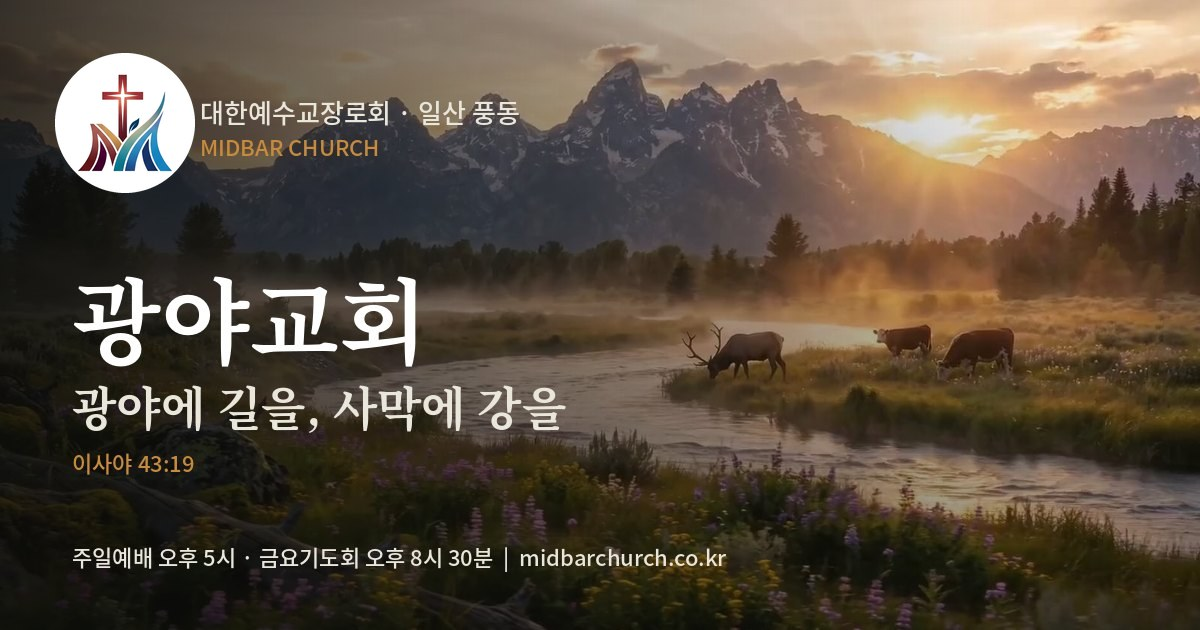
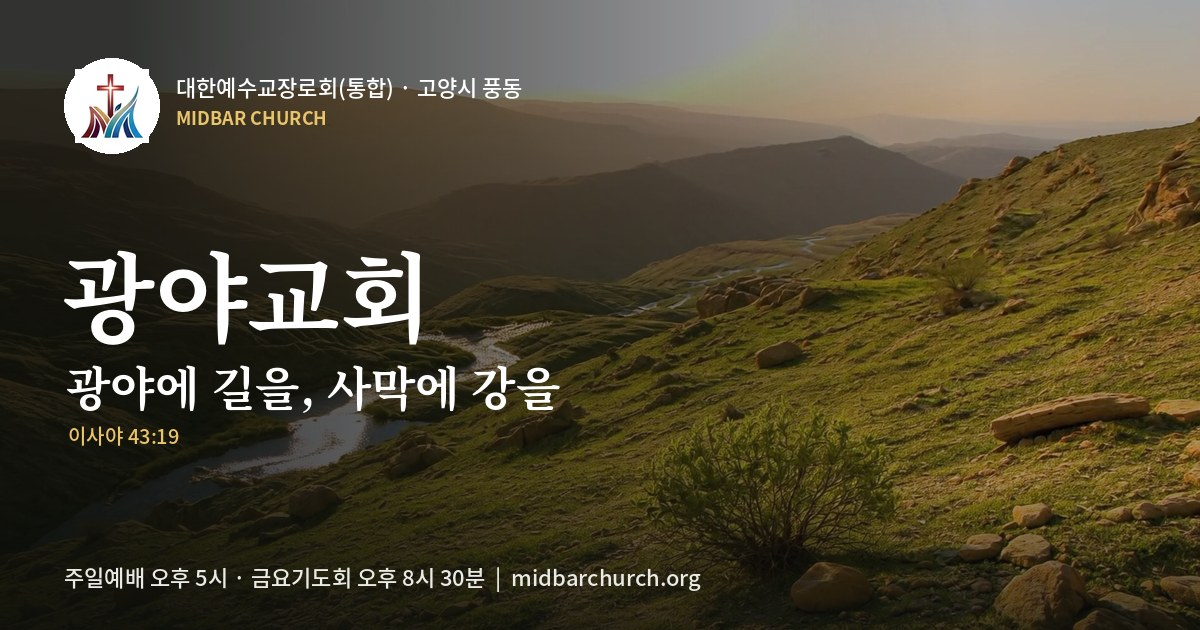
카톡·SNS 공유 이미지를 새 광야 영상 장면으로 교체
Claude-Session: https://claude.ai/code/session_01XdM4BBDA2kUD7tYbW4mUPe

diff --git a/index.html b/index.html
@@ -26,14 +26,14 @@
 <meta property="og:url" content="https://midbarchurch.org/">
 <meta property="og:title" content="광야교회 Midbar church | 대한예수교장로회(통합, 고양시)">
 <meta property="og:description" content="고양시 풍동 광야교회 · 주일예배 오후 5시 · 금요기도회 오후 8시 30분 · 숲속마을1로 26 다인타운 4층">
-<meta property="og:image" content="https://midbarchurch.org/og-image.jpg?v=3">
+<meta property="og:image" content="https://midbarchurch.org/og-image.jpg?v=4">
 <meta property="og:image:width" content="1200">
 <meta property="og:image:height" content="630">
 <meta property="og:image:alt" content="광야교회 - 광야에 길을, 사막에 강을 (이사야 43:19)">
 <meta name="twitter:card" content="summary_large_image">
 <meta name="twitter:title" content="광야교회 Midbar church | 대한예수교장로회(통합, 고양시)">
 <meta name="twitter:description" content="고양시 풍동 광야교회 · 주일예배 오후 5시 · 금요기도회 오후 8시 30분">
-<meta name="twitter:image" content="https://midbarchurch.org/og-image.jpg?v=3">
+<meta name="twitter:image" content="https://midbarchurch.org/og-image.jpg?v=4">
 <meta name="geo.region" content="KR-41">
 <meta name="geo.placename" content="경기도 고양시 풍동">
 <meta name="geo.position" content="37.6634723;126.7990264">
@@ -55,7 +55,7 @@
    "description": "하나님을 가장 깊이 만나는 곳, 광야교회입니다. 히브리어로 광야는 '미드바르'이며 '말씀(다바르)'에서 비롯된 말입니다. 2026년 9월 18일 개척 준비기도회로 첫 현장 예배를 드렸습니다.",
    "url": "https://midbarchurch.org/",
    "logo": "https://midbarchurch.org/logo-mark-512.png",
-   "image": "https://midbarchurch.org/og-image.jpg?v=3",
+   "image": "https://midbarchurch.org/og-image.jpg?v=4",
    "address": {
     "@type": "PostalAddress",
     "streetAddress": "숲속마을1로 26 다인타운 4층",
